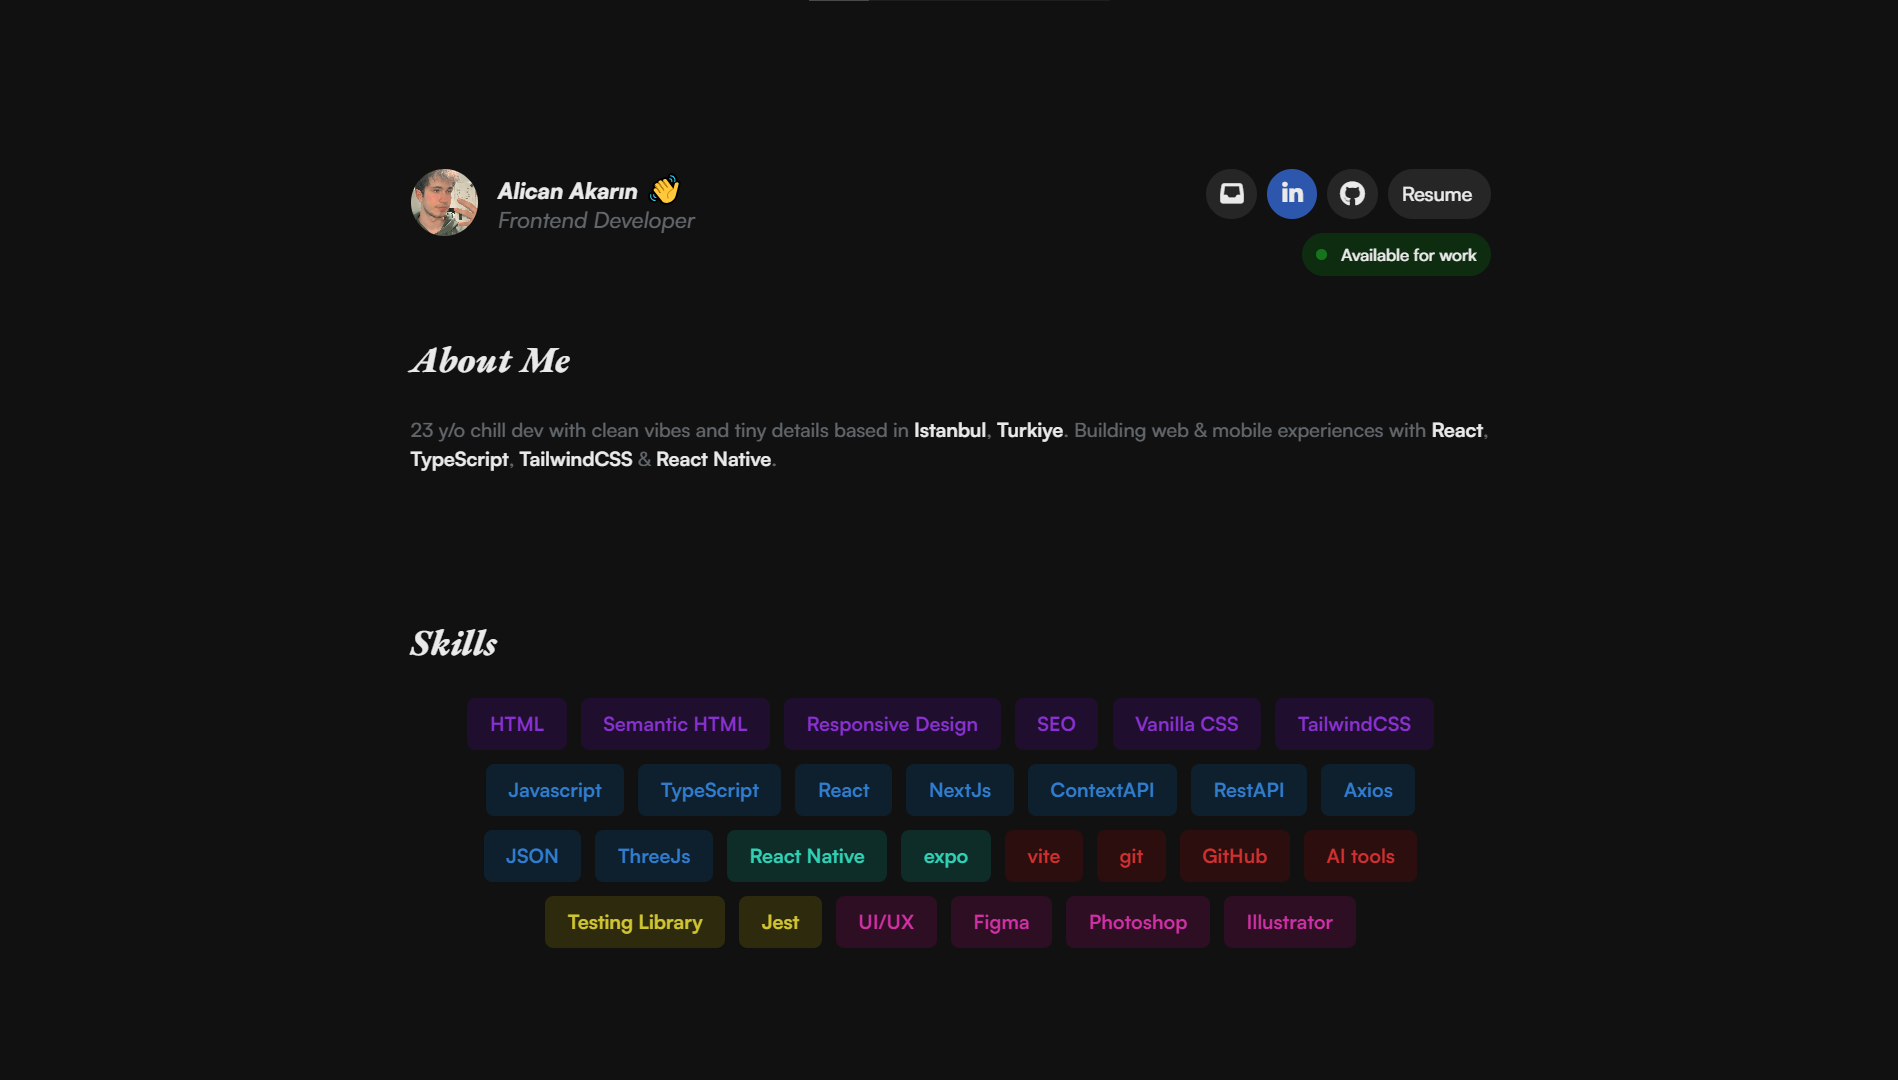
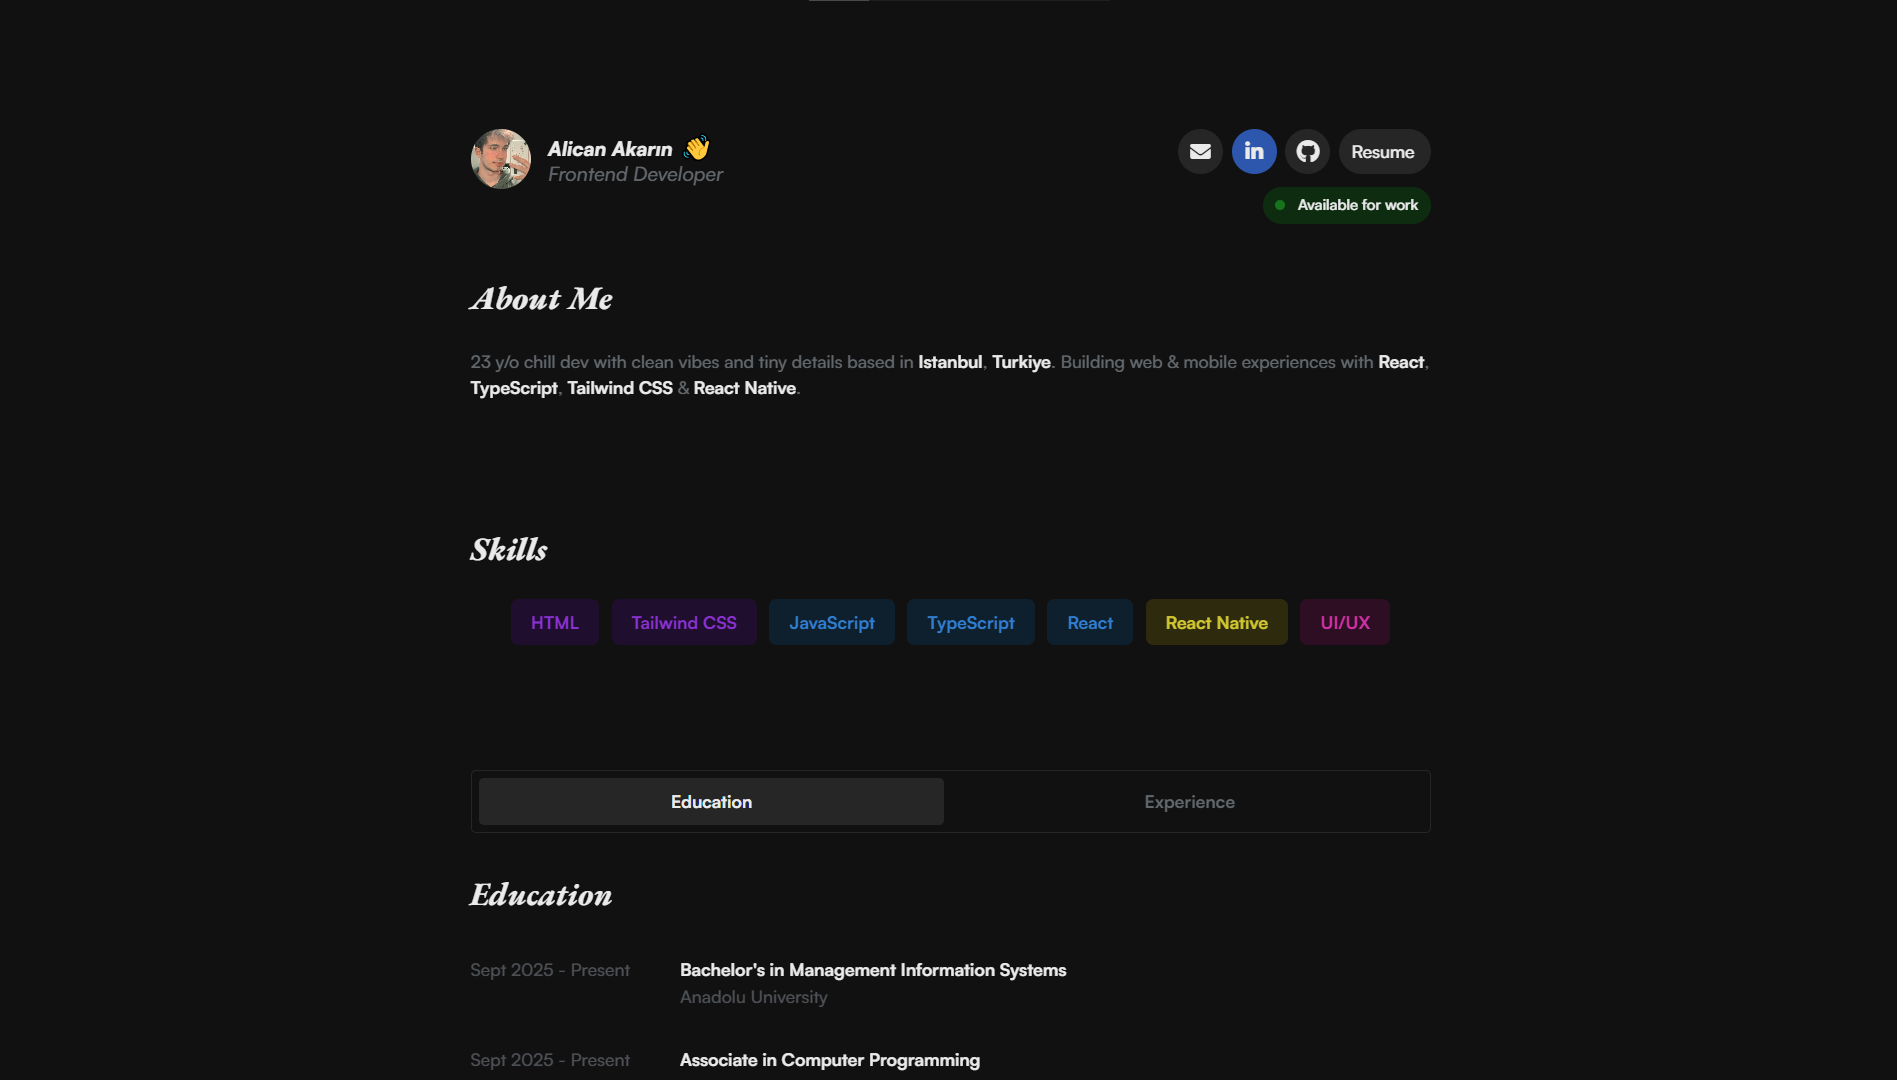
update

diff --git a/index.html b/index.html
@@ -55,43 +55,43 @@
       </div>
       <div class="about-me-section">
         <h1>About Me</h1>
-        <p class="about-me-desc">23 y/o chill dev with clean vibes and tiny details based in <span>Istanbul</span>, <span>Turkiye</span>. Building web & mobile experiences with <span>React</span>, <span>TypeScript</span>, <span>TailwindCSS</span> & <span>React Native</span>.</p>
+        <p class="about-me-desc">23 y/o chill dev with clean vibes and tiny details based in <span>Istanbul</span>, <span>Turkiye</span>. Building web & mobile experiences with <span>React</span>, <span>TypeScript</span>, <span>Tailwind CSS</span> & <span>React Native</span>.</p>
       </div>
       <div class="skills-section">
         <h1>Skills</h1>
         <div class="tag-container">
           <span class="tag tag-purple">HTML</span>
-          <span class="tag tag-purple">Semantic HTML</span>
+          <!-- <span class="tag tag-purple">Semantic HTML</span>
           <span class="tag tag-purple">Responsive Design</span>
-          <span class="tag tag-purple">SEO</span>
-          <span class="tag tag-purple">Vanilla CSS</span>
-          <span class="tag tag-purple">TailwindCSS</span>
+          <span class="tag tag-purple">SEO</span> 
+          <span class="tag tag-purple">CSS</span>-->
+          <span class="tag tag-purple">Tailwind CSS</span>
 
-          <span class="tag tag-blue">Javascript</span>
+          <span class="tag tag-blue">JavaScript</span>
           <span class="tag tag-blue">TypeScript</span>
           <span class="tag tag-blue">React</span>
-          <span class="tag tag-blue">NextJs</span>
+          <!--<span class="tag tag-blue">Next.js</span>
           <span class="tag tag-blue">ContextAPI</span>
           <span class="tag tag-blue">RestAPI</span>
           <span class="tag tag-blue">Axios</span>
-          <span class="tag tag-blue">JSON</span>
-          <span class="tag tag-blue">ThreeJs</span>
+          <span class="tag tag-blue">JSON</span> 
+          <span class="tag tag-blue">Three.js</span> -->
 
-          <span class="tag tag-teal">React Native</span>
-          <span class="tag tag-teal">expo</span>
+          <span class="tag tag-yellow">React Native</span>
+          <!-- <span class="tag tag-teal">expo</span> -->
 
-          <span class="tag tag-red">vite</span>
+          <!-- <span class="tag tag-red">Vite</span>
           <span class="tag tag-red">git</span>
           <span class="tag tag-red">GitHub</span>
-          <span class="tag tag-red">AI tools</span>
+          <span class="tag tag-red">AI tools</span> -->
 
-          <span class="tag tag-yellow">Testing Library</span>
-          <span class="tag tag-yellow">Jest</span>
+          <!-- <span class="tag tag-yellow">Testing Library</span>
+          <span class="tag tag-yellow">Jest</span> -->
 
           <span class="tag tag-pink">UI/UX</span>
-          <span class="tag tag-pink">Figma</span>
-          <span class="tag tag-pink">Photoshop</span>
-          <span class="tag tag-pink">Illustrator</span>
+          <!-- <span class="tag tag-pink">Figma</span> -->
+          <!-- <span class="tag tag-pink">Photoshop</span>
+          <span class="tag tag-pink">Illustrator</span> -->
         </div>
       </div>
       <div class="ed-exp-section">
@@ -105,7 +105,7 @@
           <div class="item">
             <div class="date">Sept 2025 - Present</div>
             <div class="details">
-              <div class="title">Bachelor's in Management Information Systems (DS)</div>
+              <div class="title">Bachelor's in Management Information Systems</div>
               <div class="institution">Anadolu University</div>
             </div>
           </div>
@@ -113,7 +113,7 @@
           <div class="item">
             <div class="date">Sept 2025 - Present</div>
             <div class="details">
-              <div class="title">Associate in Computer Programming (DS)</div>
+              <div class="title">Associate in Computer Programming</div>
               <div class="institution">Istanbul University</div>
             </div>
           </div>

diff --git a/script.js b/script.js
@@ -34,6 +34,8 @@ async function renderProjects() {
       card.innerHTML = `
         <img class="project-image" src="${project.image}" alt="Project ${project.id}" />
         <div class="overlay">
+          <h3 class="project-title">${project.title}</h3>
+          <p class="project-description">${project.description}</p>
           <div class="buttons-container">
             <a href="${project.sourceCode}" class="btn" target="_blank">Source Code</a>
             <a href="${project.liveDemo}" class="btn" target="_blank">Live Demo</a>

diff --git a/components/css/project.css b/components/css/project.css
@@ -35,6 +35,22 @@
   border-radius: 10px;
   transition: filter 0.3s ease;
 }
+.project-title {
+  font-size: var(--fs-22);
+  font-family: var(--ff-eb-garamond);
+  font-weight: var(--fw-bl);
+  color: var(--clr-white);
+  margin-bottom: var(--sp-10);
+  text-align: center;
+}
+.project-description {
+  font-size: var(--fs-16);
+  font-family: var(--ff-satoshi);
+  font-weight: var(--fw-r);
+  color: var(--clr-lightgray);
+  margin-bottom: var(--sp-20);
+  text-align: center;
+}
 
 .overlay {
   position: absolute;
